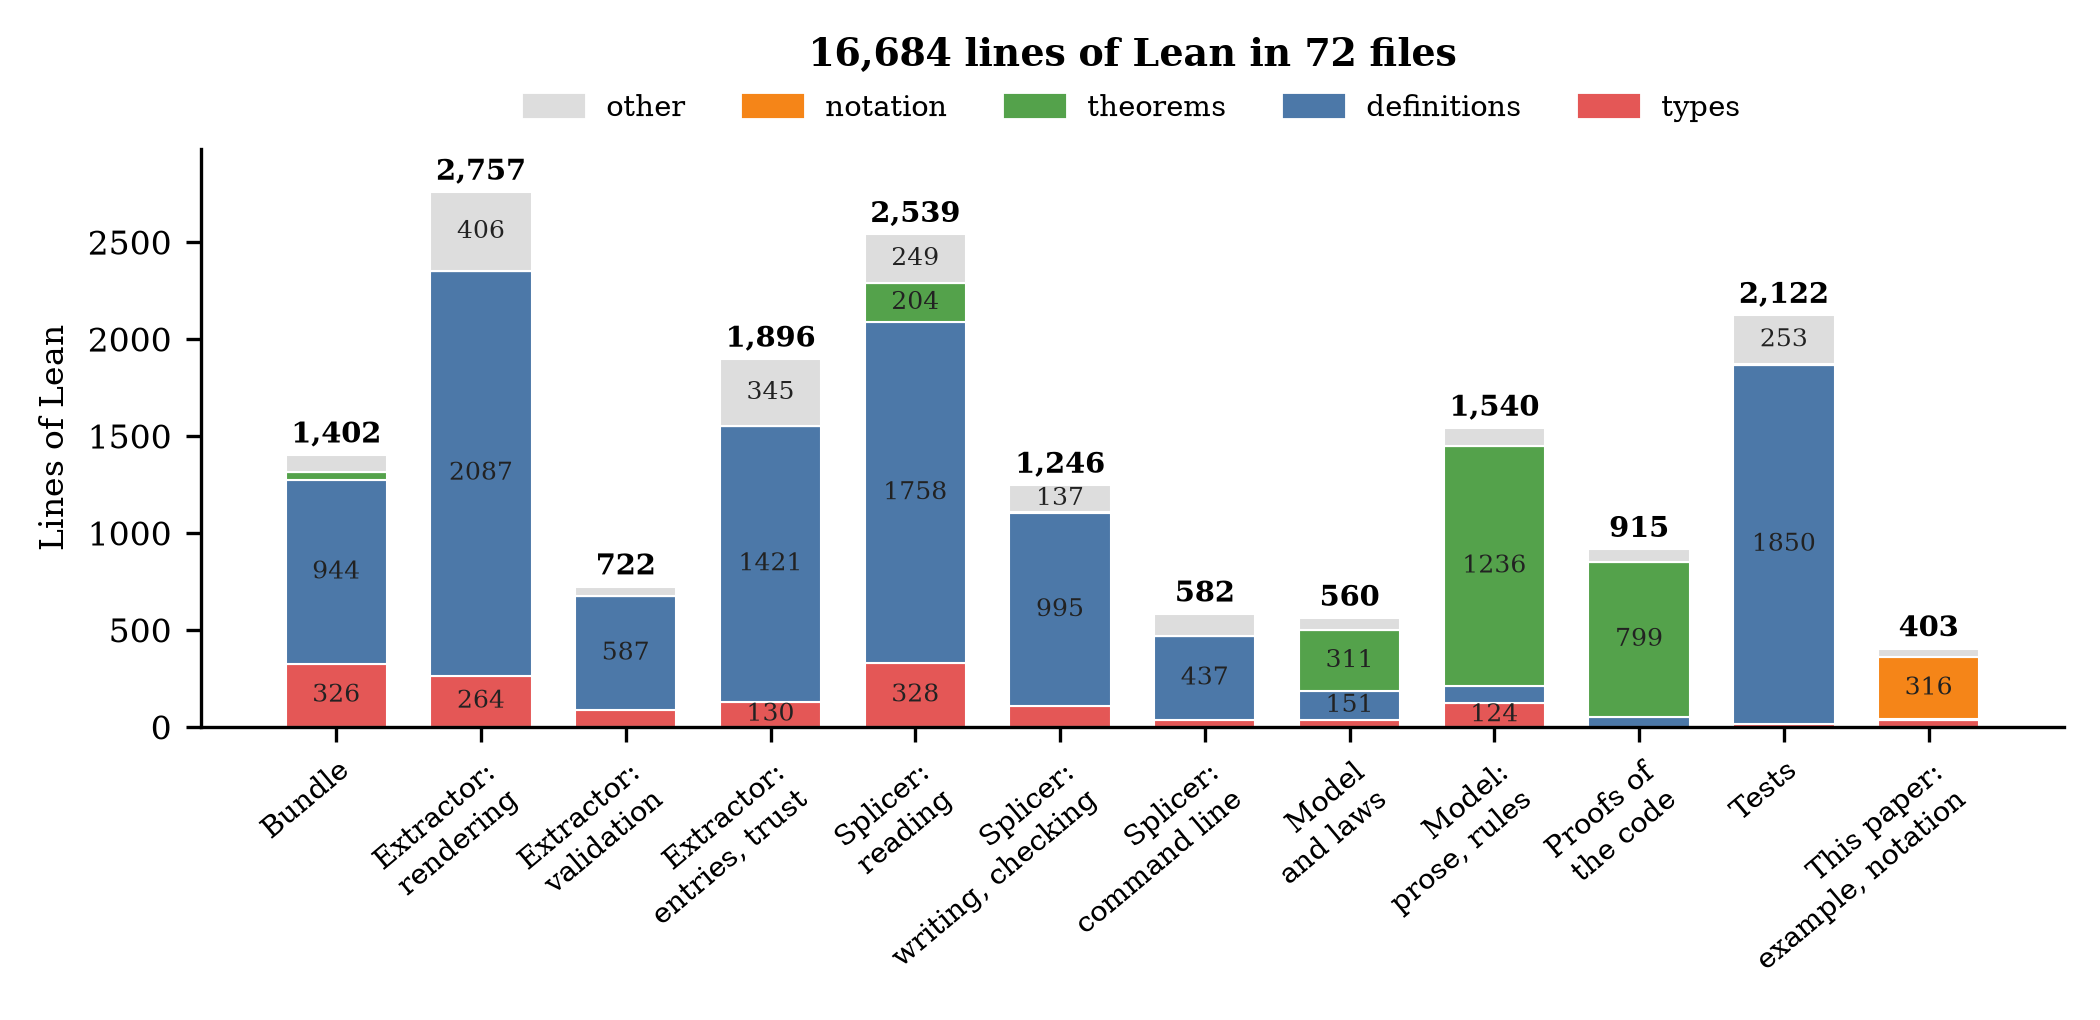
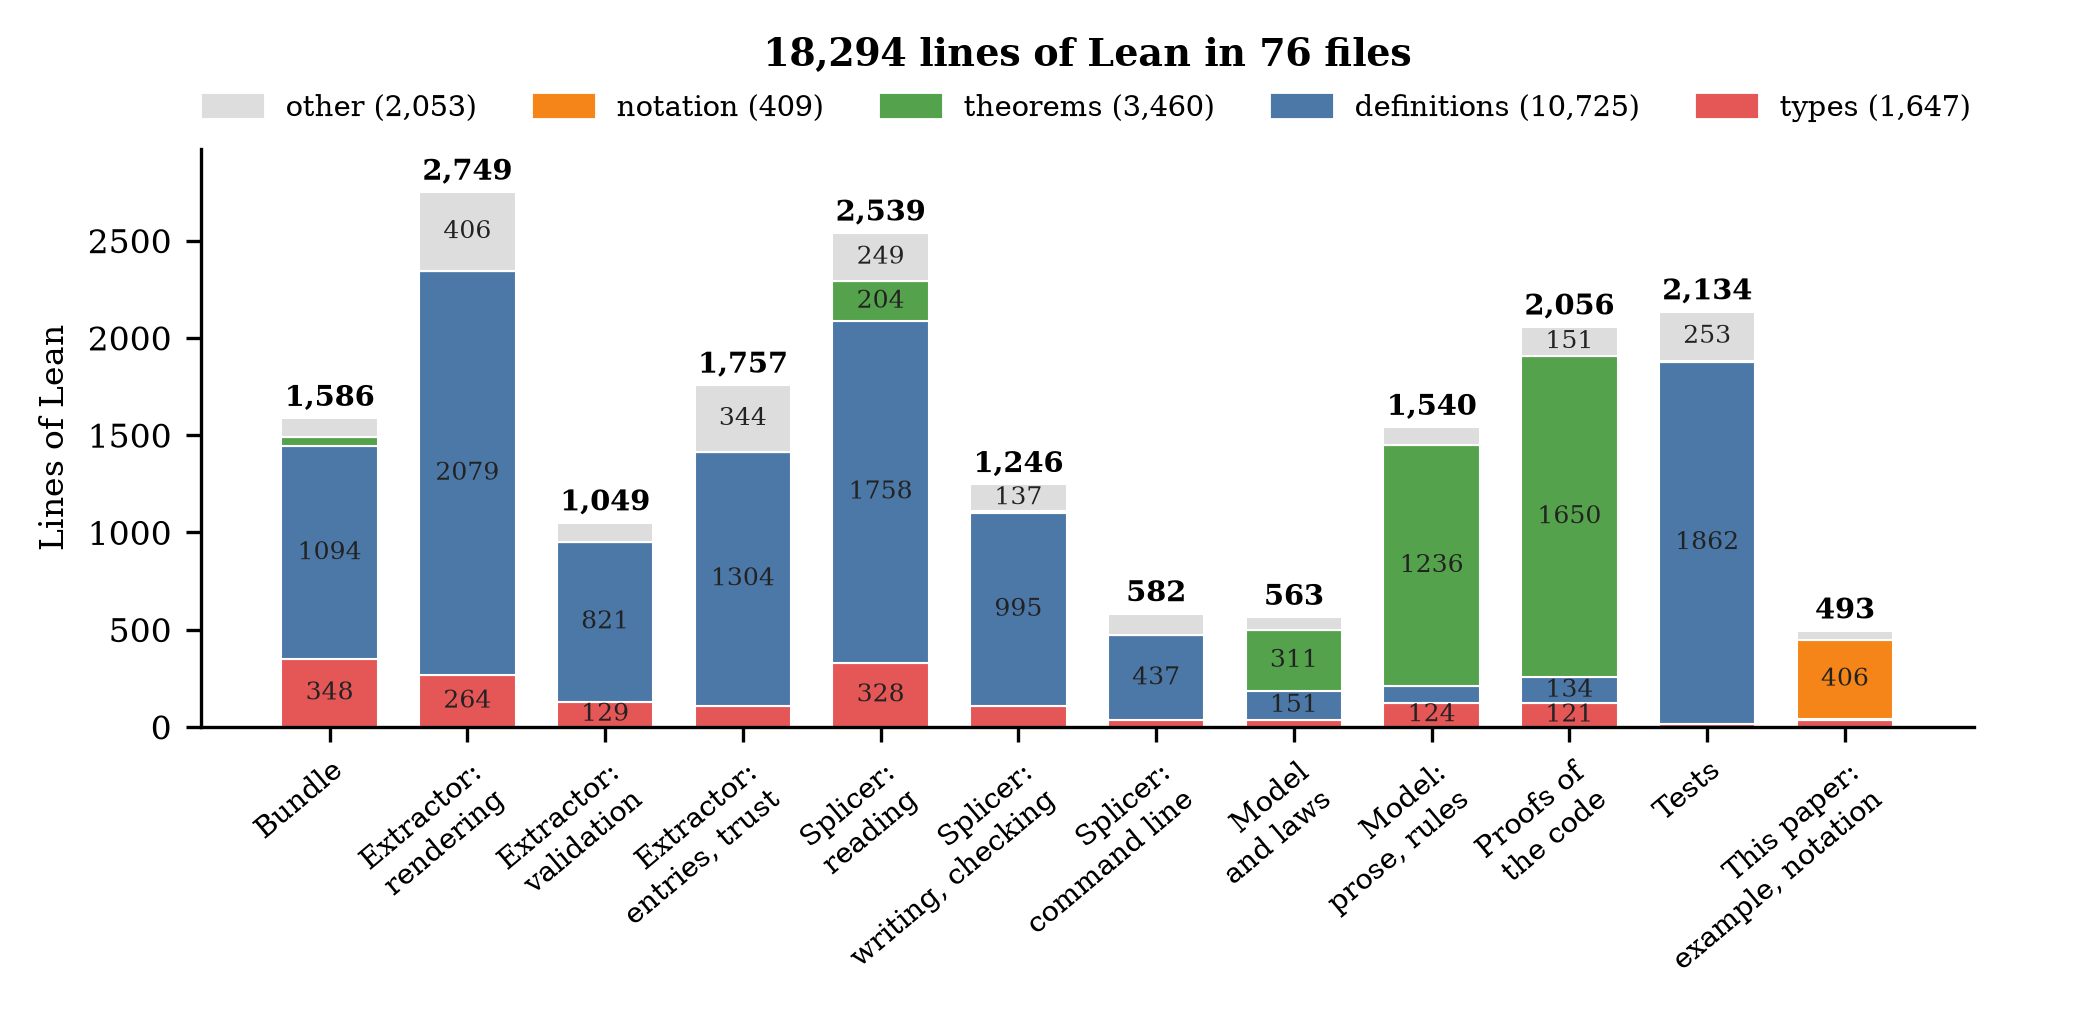
The development chart: the validator's files placed, totals in the legend
The reading back's source (bundle/ReadBack.lean) is charted with the
extractor's validation, its copies excluded; the proofs about it
(SpliceModel/ReadBack, ReadBackSound) and Formulas go with the proofs of
the code. The legend gives each kind's total, and Appendix B says the
reading back is counted once.

diff --git a/about/analytics/chart.py b/about/analytics/chart.py
@@ -58,6 +58,7 @@ FILES: list[tuple[str, list[str]]] = [
     ]),
     ("Extractor:\nvalidation", [
         "extract/Imprimatur/Validate.lean",
+        "bundle/ReadBack.lean",
     ]),
     ("Extractor:\nentries, trust", [
         "extract/Imprimatur.lean",
@@ -114,6 +115,9 @@ FILES: list[tuple[str, list[str]]] = [
     ("Proofs of\nthe code", [
         "splice/SpliceModel/Splicer.lean",
         "splice/SpliceModel/Theorem1.lean",
+        "splice/SpliceModel/Formulas.lean",
+        "splice/SpliceModel/ReadBack.lean",
+        "splice/SpliceModel/ReadBackSound.lean",
     ]),
     ("Tests", [
         "extract/test/ExtractTests.lean",
@@ -139,11 +143,13 @@ FILES: list[tuple[str, list[str]]] = [
 
 # Not charted. The bundle's type is copied into the extractor and the splicer
 # under their module names (the lint keeps the copies equal to bundle/), so it
-# is counted once, as the Bundle bar. StdMacros is a table generated by
+# is counted once, as the Bundle bar; so is the reading back, whose source,
+# bundle/ReadBack.lean, is counted with the validation it serves. StdMacros is a table generated by
 # scripts/gen-std-macros.py.
 EXCLUDED: tuple[str, ...] = (
     "extract/Imprimatur/Bundle.lean",
     "extract/Imprimatur/Layout.lean",
+    "extract/Imprimatur/ReadBack.lean",
     "splice/Imprimatur/",
     "splice/Splice/StdMacros.lean",
 )
@@ -338,7 +344,8 @@ def main() -> None:
     ax.set_ylabel("Lines of Lean")
     ax.set_ylim(0, top * 1.08)
     ax.spines[["top", "right"]].set_visible(False)
-    ax.legend(handles=[Patch(color=KIND_COLOURS[k], label=KIND_LABELS[k])
+    ax.legend(handles=[Patch(color=KIND_COLOURS[k],
+                             label=f"{KIND_LABELS[k]} ({sum(counts[k]):,})")
                        for k in reversed(KIND_ORDER)],
               loc="lower center", bbox_to_anchor=(0.5, 1.0), ncol=len(KIND_ORDER),
               frameon=False, fontsize=7)

diff --git a/about/imprimatur-paper.tex b/about/imprimatur-paper.tex
@@ -1949,7 +1949,8 @@ $e[v]$ & \texttt{subst} & \leanslot{Stlc.subst/0}{Substitution, as a stand-in: t
 Figure~\ref{fig:development} shows imprimatur's Lean by component, and
 each component's lines by the kind of declaration that holds them. The
 bundle's type is counted once, though the extractor and the splicer each
-hold a copy of it. The splicer's model and its proofs are in the splicer's
+hold a copy of it, and so is the reading back, counted with validation. The
+splicer's model and its proofs are in the splicer's
 package; the last bar is the Lean of this paper: its example and its
 notation.
 
